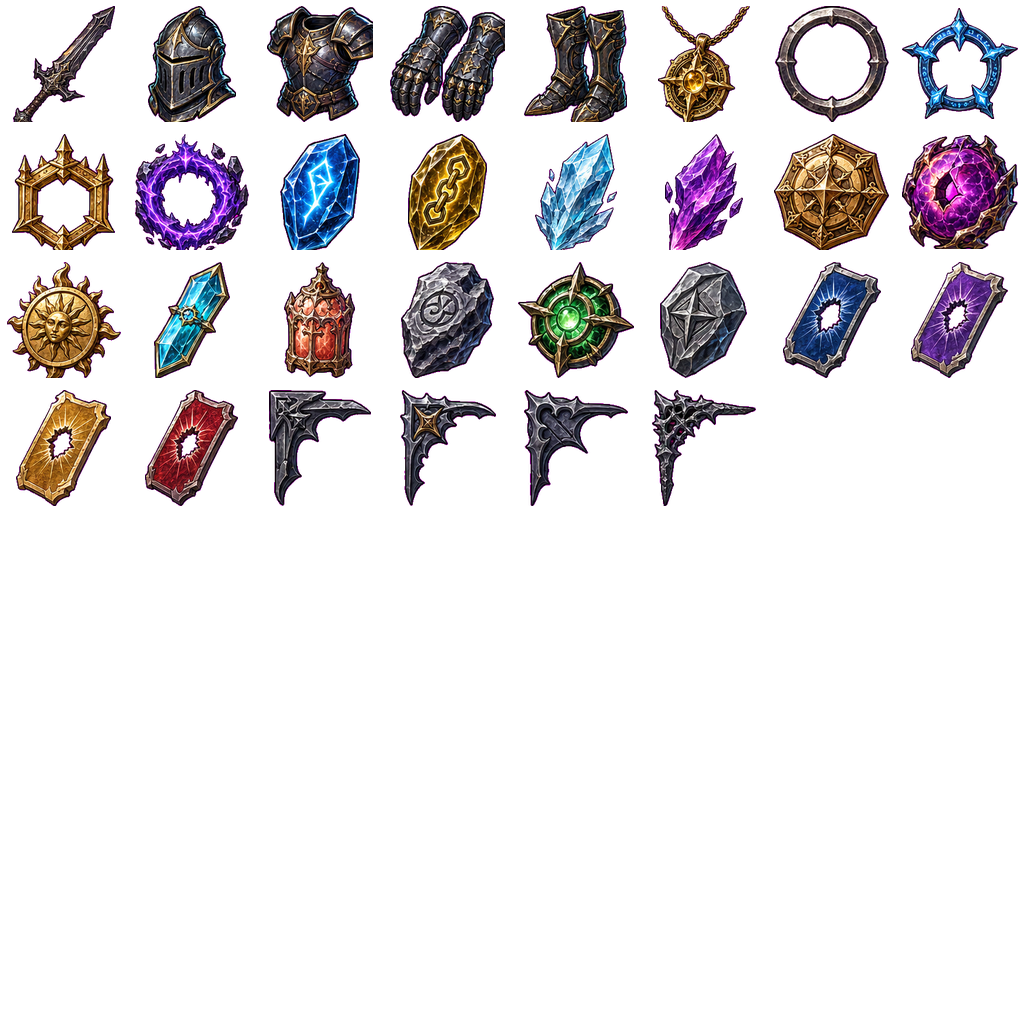
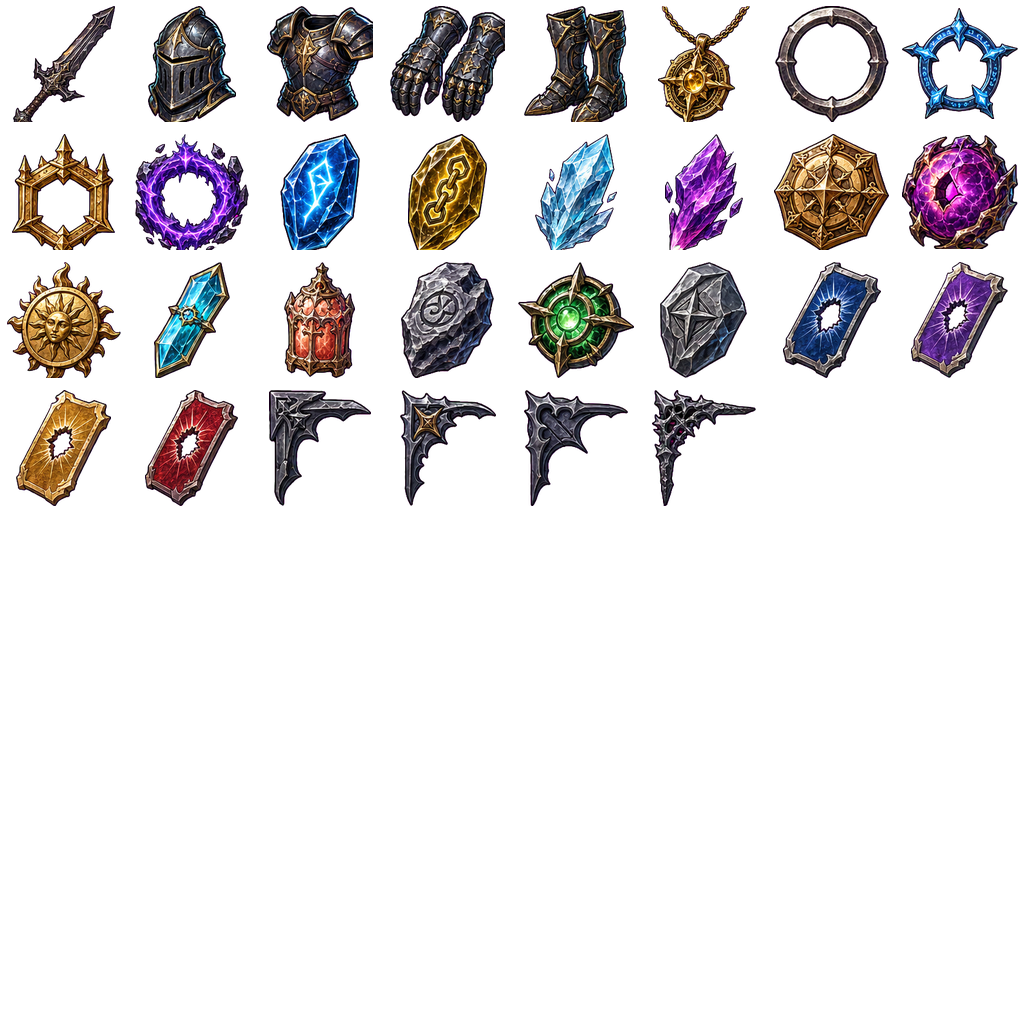
fix: despill item atlas edges

diff --git a/tests/platform/item_material_asset_pipeline_tests.py b/tests/platform/item_material_asset_pipeline_tests.py
@@ -6,7 +6,7 @@ import importlib.util
 from pathlib import Path
 import unittest
 
-from PIL import Image, ImageChops, ImageStat
+from PIL import Image, ImageChops, ImageFilter, ImageStat
 
 
 ROOT = Path(__file__).resolve().parents[2]
@@ -35,6 +35,26 @@ def connected_component_sizes(alpha: Image.Image, threshold: int = 8) -> list[in
                     stack.append(neighbor)
         sizes.append(size)
     return sorted(sizes, reverse=True)
+
+
+def outer_magenta_ratio(icon: Image.Image) -> float:
+    alpha = icon.getchannel("A")
+    inner = alpha.filter(ImageFilter.MinFilter(3))
+    edge = ImageChops.subtract(alpha, inner)
+    edge_pixels = edge.load()
+    pixels = icon.load()
+    total = 0
+    magenta = 0
+    for y in range(icon.height):
+        for x in range(icon.width):
+            red, green, blue, visible = pixels[x, y]
+            if edge_pixels[x, y] < 12 or visible < 12:
+                continue
+            total += 1
+            if (red >= 70 and blue >= 70 and min(red, blue) >= green * 1.35
+                    and abs(red - blue) <= 100):
+                magenta += 1
+    return magenta / total if total else 0.0
 
 
 class ItemMaterialAssetPipelineTests(unittest.TestCase):
@@ -123,6 +143,36 @@ class ItemMaterialAssetPipelineTests(unittest.TestCase):
         self.assertGreaterEqual(center[0], 130)
         self.assertGreaterEqual(center[2], 190)
         self.assertEqual(center[3], 255)
+
+    def test_non_purple_resources_have_no_magenta_key_halo(self) -> None:
+        atlas = Image.open(ROOT / "assets" / "stage12" / "items_ui.png").convert("RGBA")
+        purple_cells = {
+            BUILDER.ICON_CELLS["rarity_abyss"],
+            BUILDER.ICON_CELLS["material_augment"],
+            BUILDER.ICON_CELLS["material_chaos"],
+            BUILDER.ICON_CELLS["material_coupon_9"],
+        }
+        for name, cell in BUILDER.ICON_CELLS.items():
+            if cell in purple_cells:
+                continue
+            ratio = outer_magenta_ratio(BUILDER.crop_cell(atlas, cell))
+            self.assertLessEqual(ratio, 0.12, f"{name}: {ratio:.3f}")
+
+    def test_key_blended_outer_edge_is_despilled_but_inner_purple_survives(self) -> None:
+        source = Image.new("RGBA", (48, 48), (245, 3, 243, 255))
+        pixels = source.load()
+        for y in range(11, 37):
+            for x in range(11, 37):
+                pixels[x, y] = (140, 25, 160, 255)
+        for y in range(14, 34):
+            for x in range(14, 34):
+                pixels[x, y] = (108, 28, 174, 255)
+        cleaned = BUILDER.remove_magenta_key(source)
+        edge = cleaned.getpixel((11, 24))
+        interior = cleaned.getpixel((24, 24))
+        self.assertLessEqual(edge[3], 112)
+        self.assertLess(min(edge[0], edge[2]), 90)
+        self.assertEqual(interior, (108, 28, 174, 255))
 
     def test_rarity_silhouettes_are_structurally_distinct(self) -> None:
         atlas = Image.open(ROOT / "assets" / "stage12" / "items_ui.png").convert("RGBA")

diff --git a/tools/build_item_material_atlas.py b/tools/build_item_material_atlas.py
@@ -119,10 +119,36 @@ def _connected_background_mask(source: Image.Image) -> bytearray:
 def remove_magenta_key(source: Image.Image) -> Image.Image:
     rgba = source.convert("RGBA")
     background = _connected_background_mask(rgba)
+    background_image = Image.new("L", rgba.size)
+    background_image.putdata([255 if value else 0 for value in background])
+    edge_zone = background_image.filter(ImageFilter.MaxFilter(5))
+    edge_pixels = edge_zone.load()
+    key = _key_color(rgba)
     pixels = []
     for index, (red, green, blue, source_alpha) in enumerate(
             rgba.get_flattened_data()):
+        x = index % rgba.width
+        y = index // rgba.width
         alpha = 0 if background[index] else source_alpha
+        key_mix = (red >= 70 and blue >= 70
+                   and min(red, blue) >= green * 1.35
+                   and abs(red - blue) <= 100)
+        if alpha != 0 and edge_pixels[x, y] != 0 and key_mix:
+            distance = max(abs(red - key[0]), abs(green - key[1]),
+                           abs(blue - key[2]))
+            coverage = min(1.0, max(0.0, (distance - 55.0) / 125.0))
+            if coverage < 1.0:
+                alpha = round(source_alpha * coverage)
+                if coverage > 0.05:
+                    key_share = 1.0 - coverage
+                    red = max(0, min(255, round(
+                        (red - key_share * key[0]) / coverage)))
+                    green = max(0, min(255, round(
+                        (green - key_share * key[1]) / coverage)))
+                    blue = max(0, min(255, round(
+                        (blue - key_share * key[2]) / coverage)))
+                else:
+                    alpha = 0
         if alpha == 0:
             red = green = blue = 0
         pixels.append((red, green, blue, alpha))

diff --git a/.superpowers/sdd/item-loot-material-slice-report.md b/.superpowers/sdd/item-loot-material-slice-report.md
@@ -82,7 +82,21 @@
   background matte. Significant components near the largest authored subject
   are retained; detached background fragments are excluded before the subject
   bounding box is centered. Real purple foreground detail is preserved.
-- Asset quality coverage is now 6/6 and explicitly checks exact-transparent
+- Asset quality coverage is now 8/8 and explicitly checks exact-transparent
   background ratios, the dominant connected subject, five-pixel clean cell
   borders, and a synthetic purple subject whose anchor must not be shifted by
   dark-magenta edge noise.
+- Added a localized alpha-edge despill pass after connected-background removal.
+  It is restricted to key-mixed pixels within two pixels of the transparent
+  background, so genuine purple interiors are not recolored. A synthetic
+  key-blended edge sample now proves the edge is made translucent and
+  decontaminated while its inner purple sample remains byte-identical.
+- Added a per-cell outer-halo quality gate for all non-purple resources. Under
+  that metric, the rebuilt atlas reduced the affected outer-magenta ratios from
+  approximately 26.2-38.2% to 1.65-6.01% (3.81% mean), with every checked cell
+  below the 12% ceiling.
+- The fixed-position validator no longer treats the removed magenta fringe as
+  authored weapon chroma. The intentionally near-neutral steel weapon uses a
+  one-pixel accent floor while retaining the same substantial-difference,
+  connected-contour, extent, and 45-color-diversity requirements; the
+  baseline-replacement negative test still has to fail.
